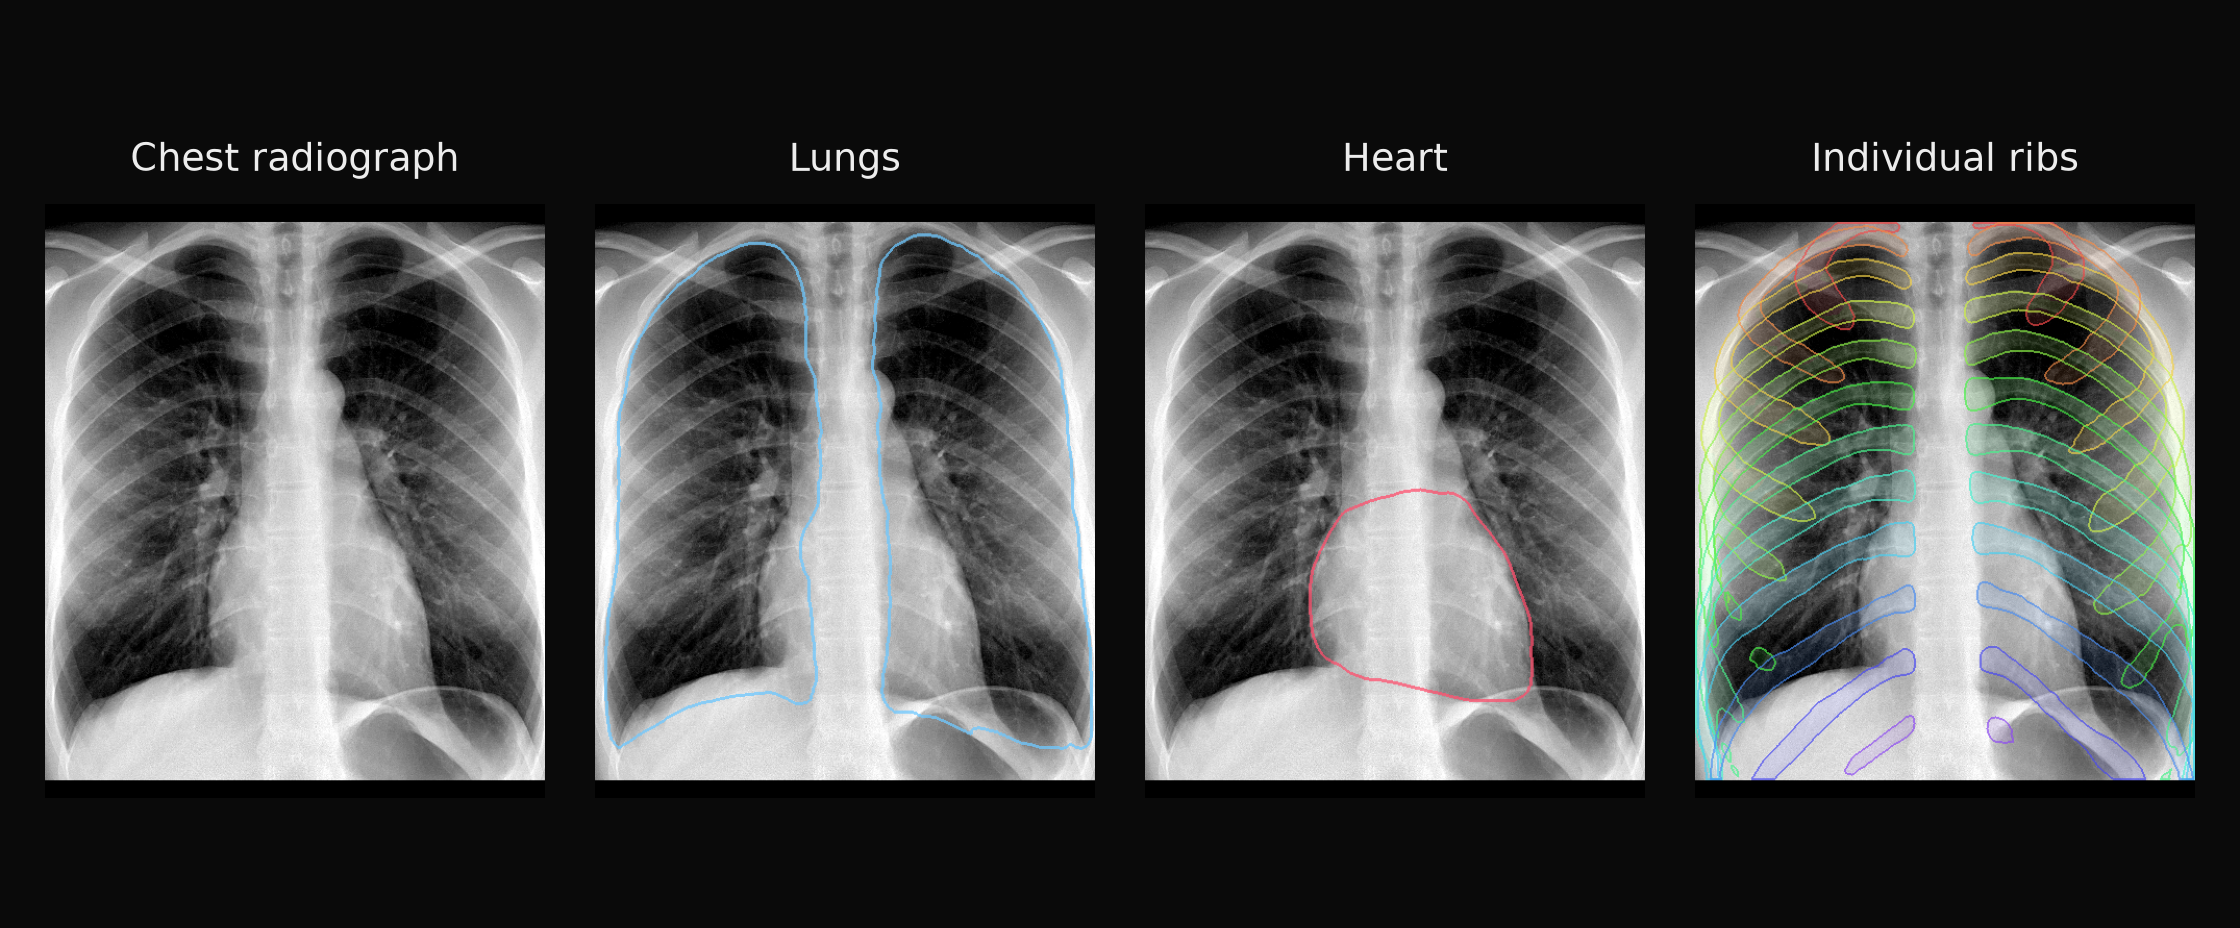
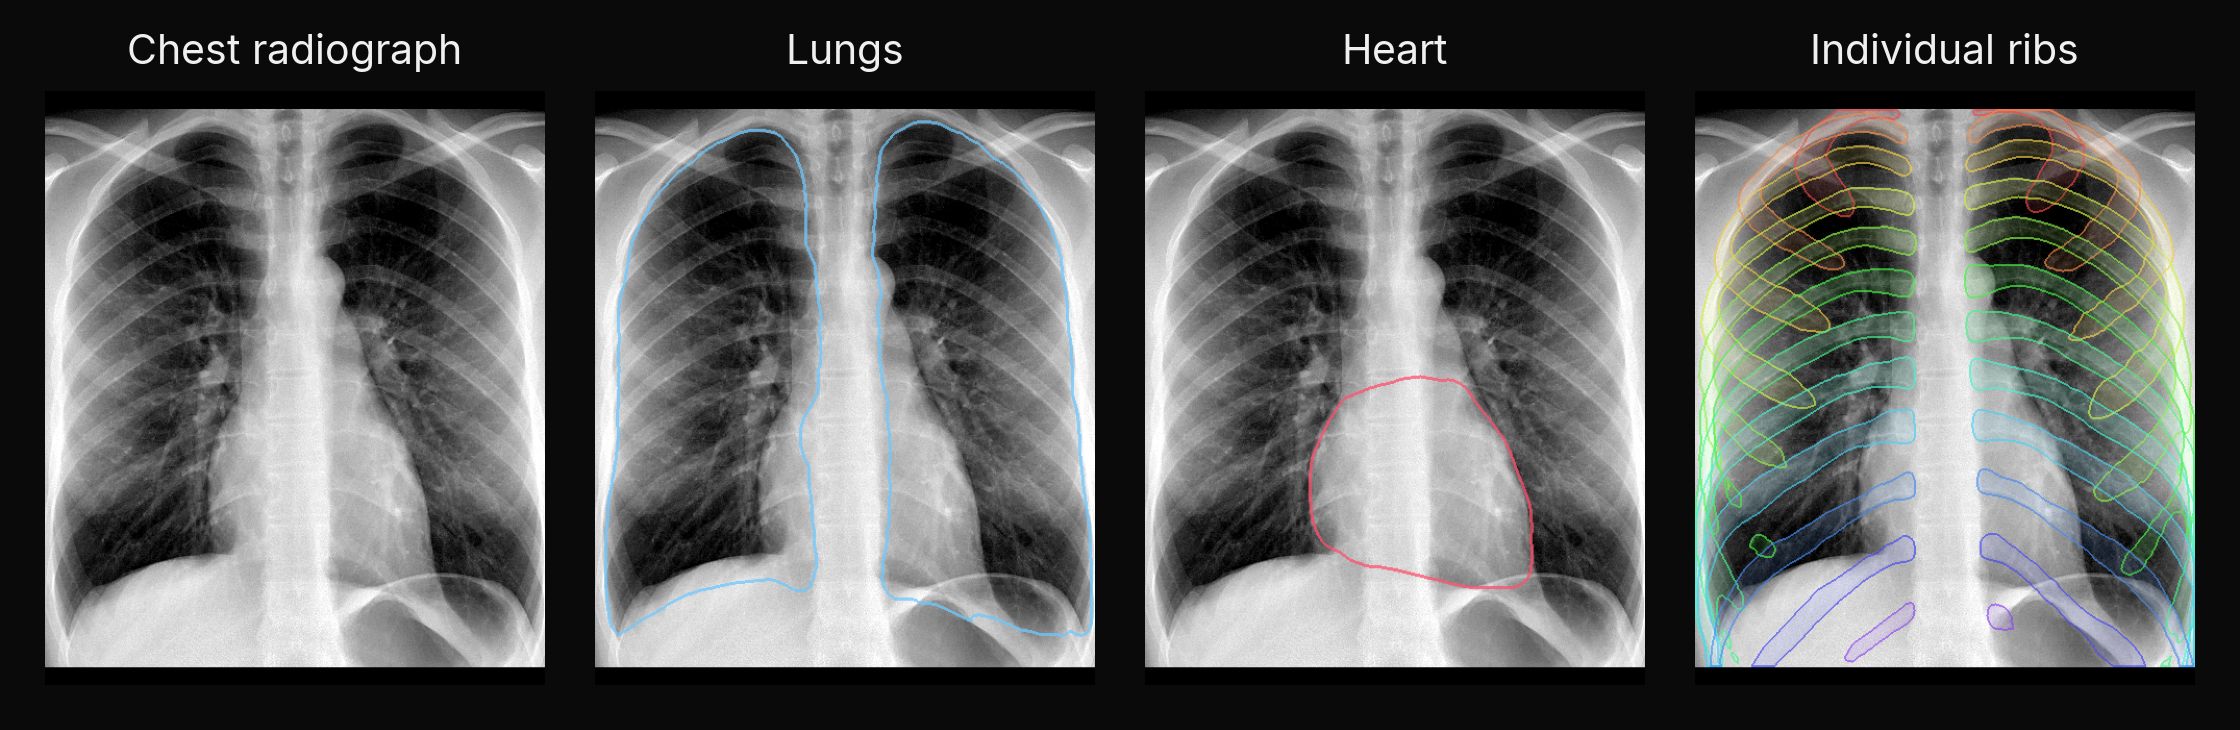
Relabel the README hero in Inter and load it from main
Titles and legend are redrawn in Inter Regular at a size proportional to the image width and centered over each panel. Image panels are unchanged.

diff --git a/README.md b/README.md
@@ -11,7 +11,7 @@ Segment anatomical structures in radiographs with FleXray and native MLX.
 [![Hugging Face](https://img.shields.io/badge/%F0%9F%A4%97_Hugging_Face-weights-yellow)](https://huggingface.co/MedMLX/flexray-mlx)
 [![MedMLX](https://img.shields.io/badge/MedMLX-runtime-A51C30)](https://github.com/MedMLX/medmlx)
 
-<img src="https://raw.githubusercontent.com/MedMLX/flexray-mlx/v0.2.7/docs/showcase.png" alt="Chest radiograph with lung, heart and individual rib segmentations" width="100%">
+<img src="https://raw.githubusercontent.com/MedMLX/flexray-mlx/main/docs/showcase.png" alt="Chest radiograph with lung, heart and individual rib segmentations" width="100%">
 
 </div>
 
